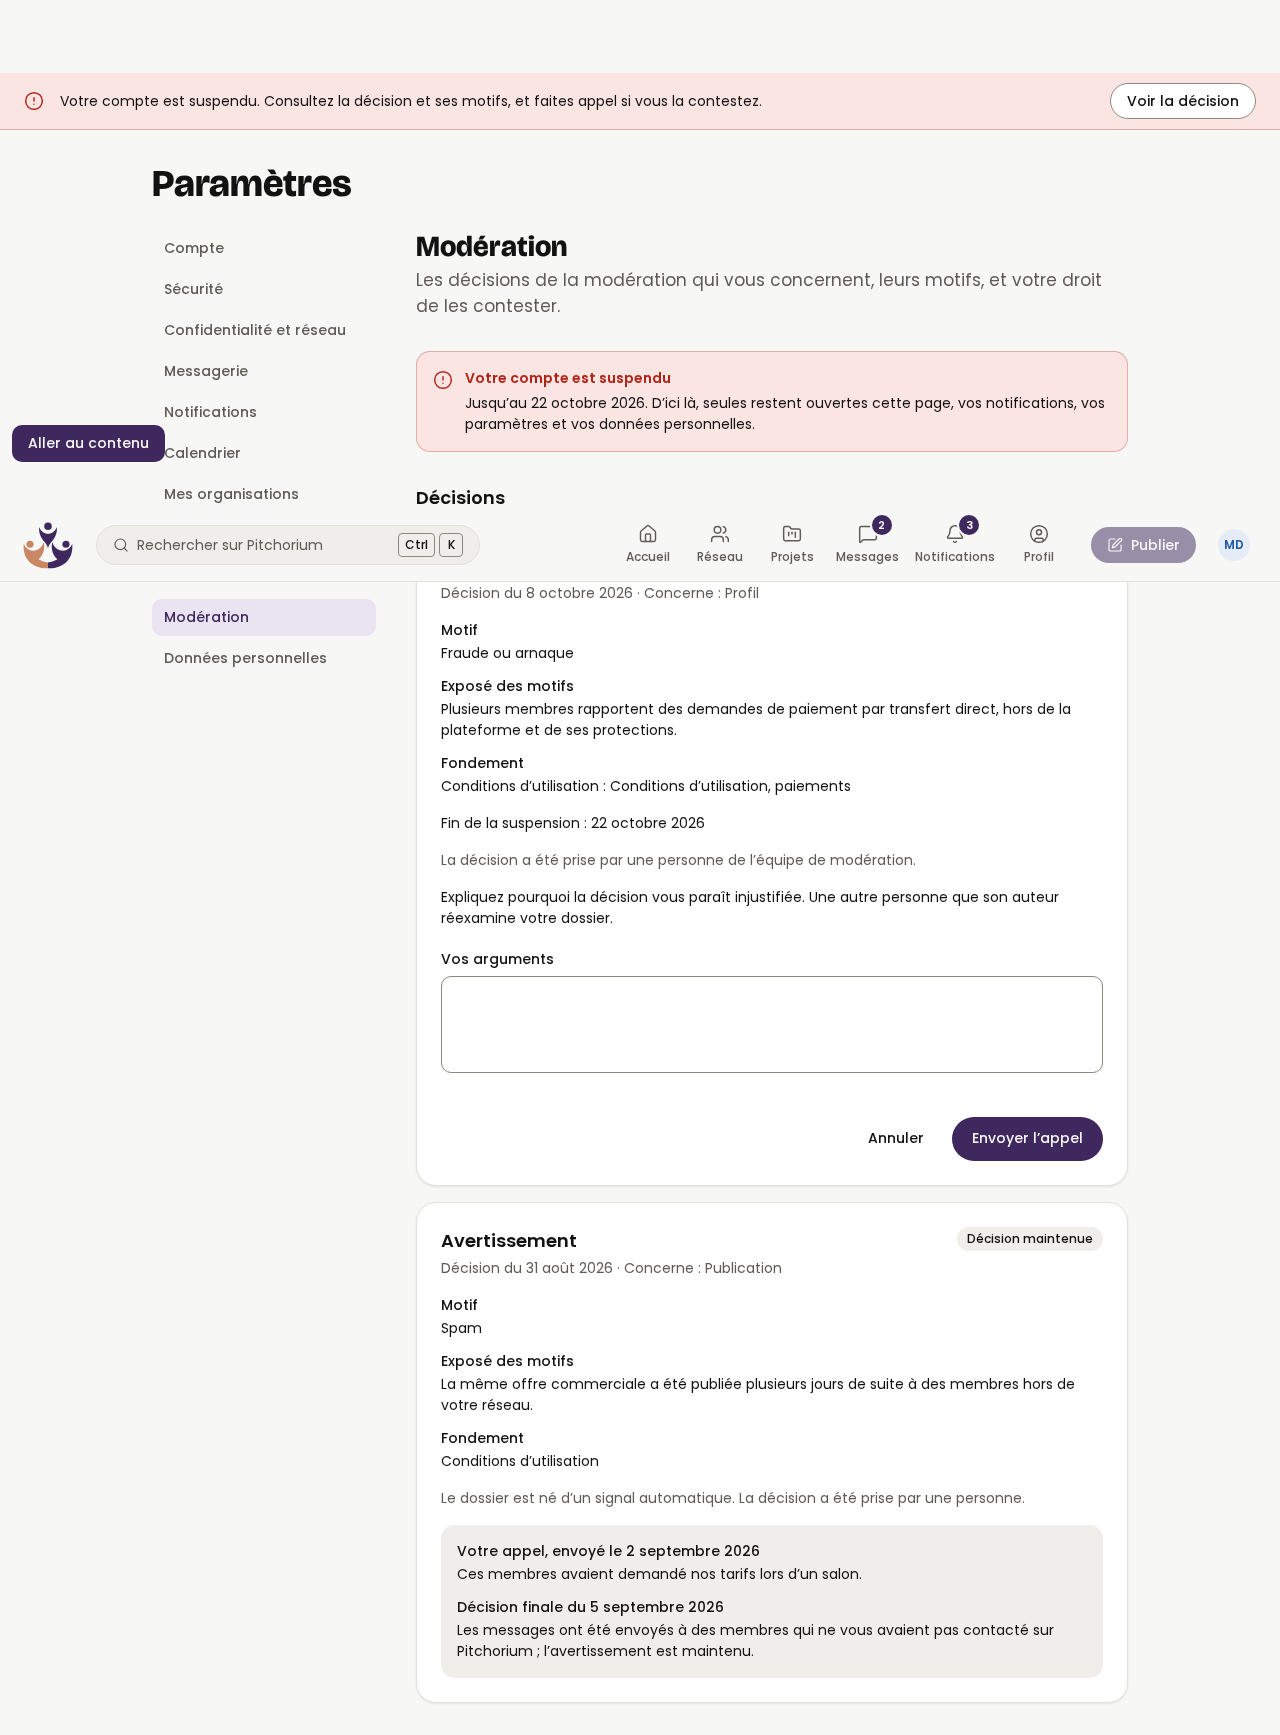
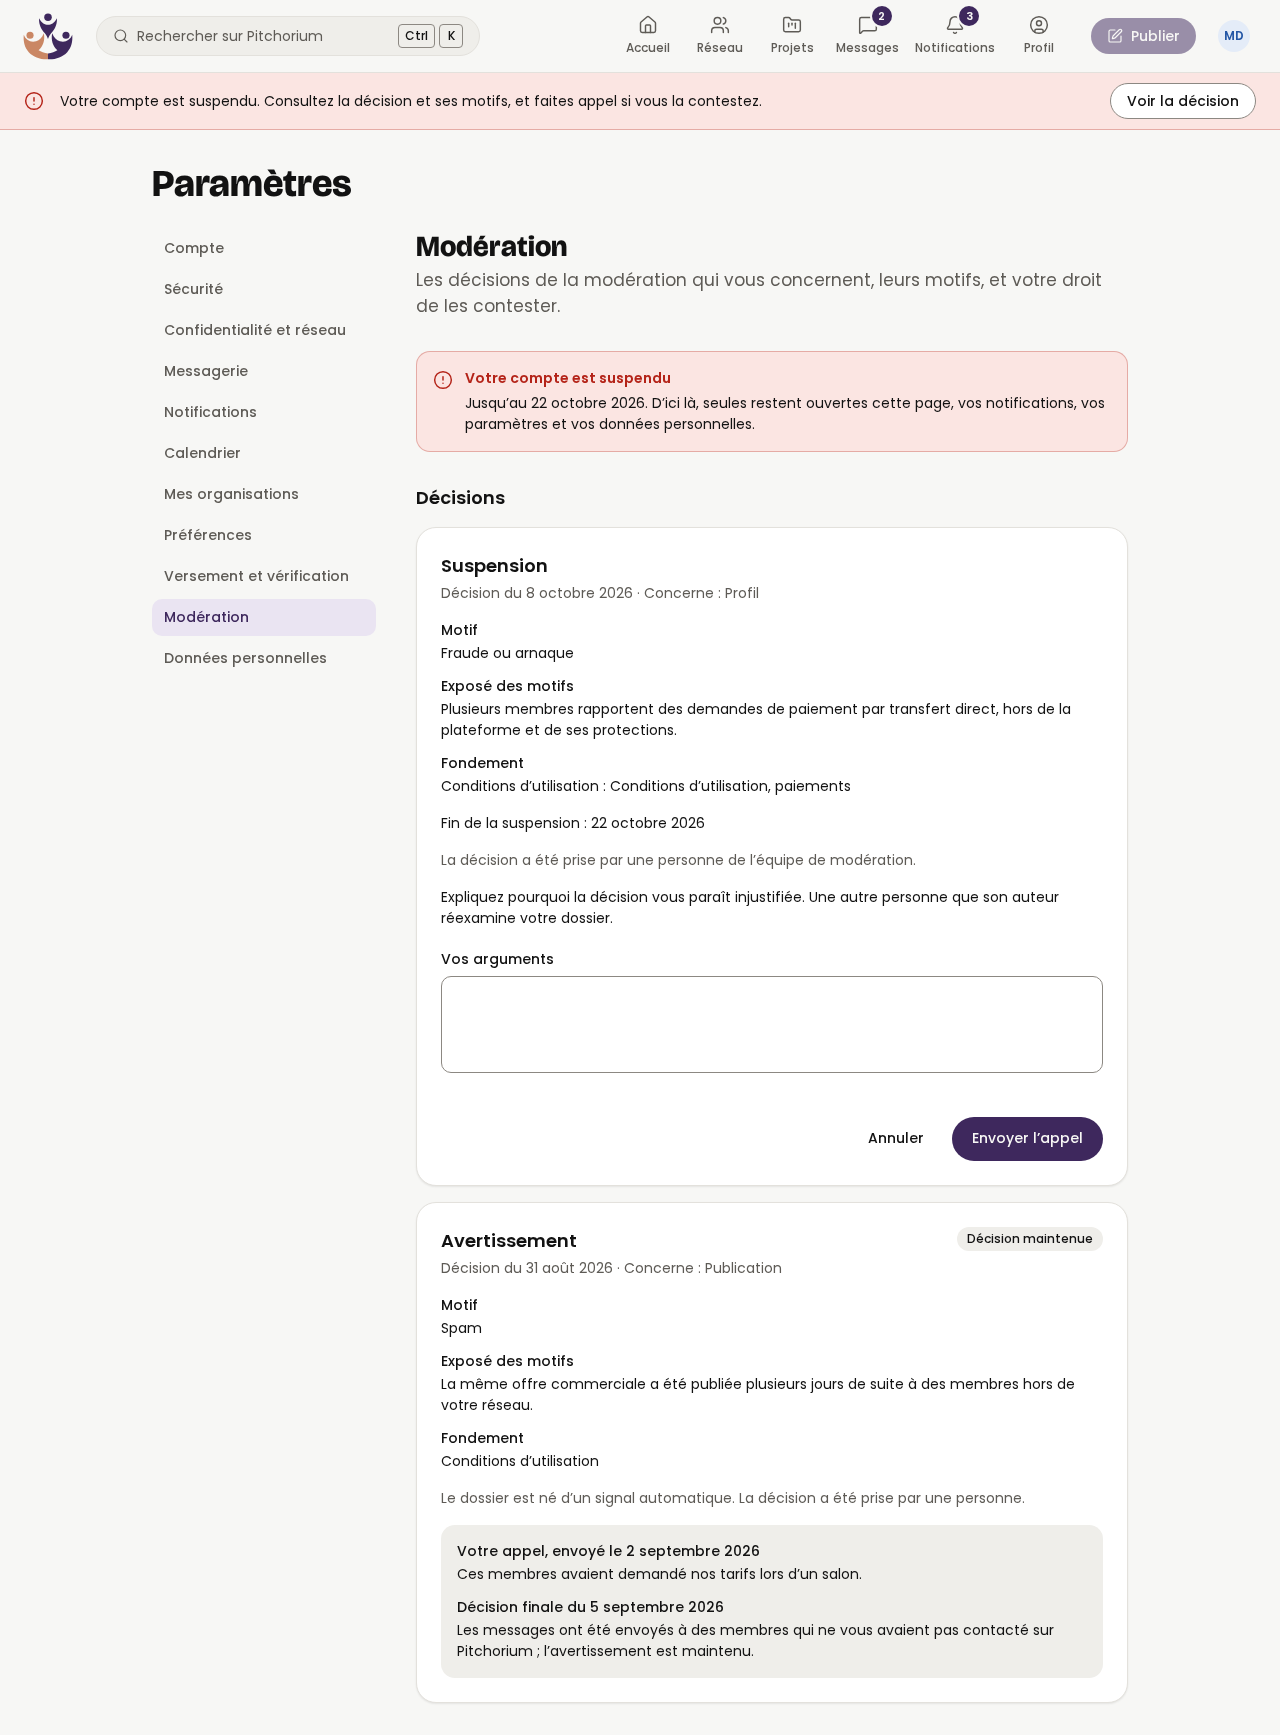
test(web): capture the appeal from the top of its page

diff --git a/apps/web/e2e/review/trust.review.ts b/apps/web/e2e/review/trust.review.ts
@@ -54,6 +54,8 @@ const SCREENS: Screen[] = [
     act: async (page) => {
       await page.getByRole('button', { name: 'Faire appel' }).click();
       await expect(page.getByLabel('Vos arguments')).toBeVisible();
+      // A full page from its top: the sticky header stays where it belongs.
+      await page.evaluate(() => window.scrollTo(0, 0));
     },
   },
   { id: 'trust-suspended-feed', path: '/fr/feed', as: SUSPENDED },
